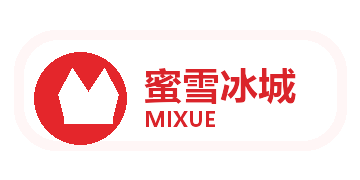
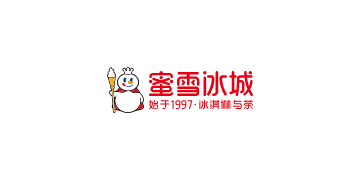
Make brand and drink choices visually recognizable
The screenshots showed three related trust and clarity problems: brand cards hid weak logo assets inside busy cards, drink cards reused broad tag icons too often, and the shared-bike equivalent reused the jogging figure. This keeps the flow unchanged while making the selection and result visuals map to what users actually picked.

Constraint: Keep the mini program as a lightweight趣味估算 tool without adding new flows, sources in the UI, or third-party dependencies.

Constraint: Use official brand web assets where accessible and avoid third-party logo sites.

Rejected: Add a new icon library dependency | local generated PNG assets keep the change small and mini-program friendly.

Rejected: Use unofficial logo aggregators for every brand | source trust matters more than filling every gap with third-party files.

Confidence: high

Scope-risk: moderate

Directive: Do not replace brand assets with third-party logo-site downloads; keep official-source notes internal only.

Tested: npm test (25/25 passing)

Tested: node --check utils/poster.js

Tested: full recursive node --check for *.js

Not-tested: WeChat DevTools visual preview on device after asset replacement

Changed region(s): [[0.0917, 0.2778, 0.825, 0.8056]]

diff --git a/data/drink-icons.js b/data/drink-icons.js
@@ -1,0 +1,73 @@
+module.exports = {
+  'mixue-fresh-lemonade': '/assets/icons/drinks/fruit-tea.png',
+  'mixue-ice-cream': '/assets/icons/drinks/ice-cream.png',
+  'mixue-strawberry-shake': '/assets/icons/drinks/fruit-tea.png',
+  'mixue-jasmine-milk-green': '/assets/icons/drinks/jasmine-milk.png',
+  'mixue-snow-king-coffee': '/assets/icons/drinks/coffee-float.png',
+  'mixue-pearl-milk-tea': '/assets/icons/drinks/milk-tea.png',
+  'mixue-orange-smash': '/assets/icons/drinks/fruit-tea.png',
+  'mixue-passion-fruit-cup': '/assets/icons/drinks/fruit-tea.png',
+
+  'chagee-boya-juexian': '/assets/icons/drinks/original-tea.png',
+  'chagee-ceylon-black-tea': '/assets/icons/drinks/original-tea.png',
+  'chagee-qingmo-guanyin': '/assets/icons/drinks/original-tea.png',
+  'chagee-qingqing-nuoshan': '/assets/icons/drinks/original-tea.png',
+  'chagee-guifu-lanxiang': '/assets/icons/drinks/osmanthus-tea.png',
+  'chagee-baiwu-hongchen': '/assets/icons/drinks/original-tea.png',
+  'chagee-rose-puer': '/assets/icons/drinks/original-tea.png',
+  'chagee-wanshanhong': '/assets/icons/drinks/original-tea.png',
+
+  'heytea-grape-jelly': '/assets/icons/drinks/fruit-tea.png',
+  'heytea-berry-cheese': '/assets/icons/drinks/cheese-foam.png',
+  'heytea-mango-cheese': '/assets/icons/drinks/mango-pomelo.png',
+  'heytea-green-grape': '/assets/icons/drinks/fruit-tea.png',
+  'heytea-roasted-brown-sugar-bobo': '/assets/icons/drinks/milk-tea.png',
+  'heytea-light-mango-pomelo': '/assets/icons/drinks/mango-pomelo.png',
+  'heytea-cheese-green-tea': '/assets/icons/drinks/cheese-foam.png',
+  'heytea-yueguan': '/assets/icons/drinks/original-tea.png',
+
+  'chabaidao-yangzhi-ganlu': '/assets/icons/drinks/mango-pomelo.png',
+  'chabaidao-green-grape-jasmine': '/assets/icons/drinks/fruit-tea.png',
+  'chabaidao-watermelon-bobo': '/assets/icons/drinks/fruit-tea.png',
+  'chabaidao-sunshine-green-grape-milk': '/assets/icons/drinks/fruit-tea.png',
+  'chabaidao-pink-guava': '/assets/icons/drinks/fruit-tea.png',
+  'chabaidao-soy-jade-kylin': '/assets/icons/drinks/original-tea.png',
+  'chabaidao-signature-taro-ball-milk-tea': '/assets/icons/drinks/milk-tea.png',
+  'chabaidao-jasmine-milk-green': '/assets/icons/drinks/jasmine-milk.png',
+
+  'guming-yangzhi-ganlu': '/assets/icons/drinks/mango-pomelo.png',
+  'guming-super-cheese-grape': '/assets/icons/drinks/cheese-foam.png',
+  'guming-yunling-jasmine-white': '/assets/icons/drinks/jasmine-milk.png',
+  'guming-brulee-crunch-milk': '/assets/icons/drinks/cheese-foam.png',
+  'guming-taro-grain-milk': '/assets/icons/drinks/milk-tea.png',
+  'guming-whole-lemon': '/assets/icons/drinks/fruit-tea.png',
+  'guming-passion-duet': '/assets/icons/drinks/fruit-tea.png',
+  'guming-classic-milk-tea': '/assets/icons/drinks/milk-tea.png',
+
+  'yidiandian-black-tea-macchiato': '/assets/icons/drinks/cheese-foam.png',
+  'yidiandian-boba-milk-tea': '/assets/icons/drinks/milk-tea.png',
+  'yidiandian-four-seasons-three-toppings': '/assets/icons/drinks/original-tea.png',
+  'yidiandian-milk-black-tea': '/assets/icons/drinks/milk-tea.png',
+  'yidiandian-qingxiang-oolong': '/assets/icons/drinks/original-tea.png',
+  'yidiandian-ice-cream-black-tea': '/assets/icons/drinks/ice-cream.png',
+  'yidiandian-yakult-green-tea': '/assets/icons/drinks/original-tea.png',
+  'yidiandian-grapefruit-green-tea': '/assets/icons/drinks/fruit-tea.png',
+
+  'coco-pearl-milk-tea': '/assets/icons/drinks/milk-tea.png',
+  'coco-three-brothers': '/assets/icons/drinks/milk-tea.png',
+  'coco-passion-fruit-double': '/assets/icons/drinks/fruit-tea.png',
+  'coco-taro-grain-milk': '/assets/icons/drinks/milk-tea.png',
+  'coco-jasmine-milk-green': '/assets/icons/drinks/jasmine-milk.png',
+  'coco-taro-milk-tea': '/assets/icons/drinks/milk-tea.png',
+  'coco-lemon-king': '/assets/icons/drinks/fruit-tea.png',
+  'coco-coconut-mango-pomelo': '/assets/icons/drinks/mango-pomelo.png',
+
+  'molimilk-jasmine-milk-white': '/assets/icons/drinks/jasmine-milk.png',
+  'molimilk-osmanthus-longjing': '/assets/icons/drinks/osmanthus-tea.png',
+  'molimilk-bailan': '/assets/icons/drinks/original-tea.png',
+  'molimilk-gardenia-milk-white': '/assets/icons/drinks/jasmine-milk.png',
+  'molimilk-matcha-bailan': '/assets/icons/drinks/matcha.png',
+  'molimilk-matcha-zhenwang': '/assets/icons/drinks/matcha.png',
+  'molimilk-jasmine-flower': '/assets/icons/drinks/jasmine-milk.png',
+  'molimilk-jasmine-mango-pomelo': '/assets/icons/drinks/mango-pomelo.png'
+};

diff --git a/tests/ui-layout.test.js b/tests/ui-layout.test.js
@@ -63,6 +63,57 @@ test('drink selection uses a two-column grid instead of a narrow single column',
   assert.doesNotMatch(styles, /\.drink-list\s*{[^}]*flex-direction:\s*column/s);
 });
 
+test('drink cards use drink-specific artwork instead of the first generic tag icon', () => {
+  const script = read('pages/drinks/drinks.js');
+  const iconMap = require('../data/drink-icons');
+
+  assert.match(script, /getDrinkIcon\(drink\)/);
+  assert.doesNotMatch(script, /icon:\s*tags\[0\]\s*\?\s*tags\[0\]\.icon/);
+  assert.equal(iconMap['molimilk-osmanthus-longjing'], '/assets/icons/drinks/osmanthus-tea.png');
+  assert.equal(iconMap['molimilk-jasmine-mango-pomelo'], '/assets/icons/drinks/mango-pomelo.png');
+  assert.ok(new Set(Object.values(iconMap)).size >= 8);
+});
+
+test('brand page gives official logos a larger dedicated visual area', () => {
+  const markup = read('pages/brands/brands.wxml');
+  const styles = read('pages/brands/brands.wxss');
+
+  assert.match(markup, /class="brand-logo-panel"/);
+  assert.match(markup, /class="brand-meta"/);
+  assert.match(styles, /\.brand-logo-panel\s*{/);
+  assert.match(styles, /\.brand-logo\s*{[^}]*width:\s*220rpx;[^}]*height:\s*96rpx;/s);
+  assert.match(styles, /\.brand-card\s*{[^}]*min-height:\s*214rpx;/s);
+});
+
+test('local visual assets cover official brand logos and specific drink icons', () => {
+  const sources = JSON.parse(read('assets/brands/sources.json'));
+  const iconPaths = [
+    'assets/icons/bike.png',
+    'assets/icons/drinks/original-tea.png',
+    'assets/icons/drinks/milk-tea.png',
+    'assets/icons/drinks/fruit-tea.png',
+    'assets/icons/drinks/cheese-foam.png',
+    'assets/icons/drinks/matcha.png',
+    'assets/icons/drinks/mango-pomelo.png',
+    'assets/icons/drinks/coffee-float.png',
+    'assets/icons/drinks/ice-cream.png',
+    'assets/icons/drinks/osmanthus-tea.png',
+    'assets/icons/drinks/jasmine-milk.png'
+  ];
+
+  assert.equal(Object.keys(sources).length, 8);
+  for (const source of Object.values(sources)) {
+    assert.match(source.url, /^https:\/\/(www\.|cn\.|web-oss\.|oss\.|g\.)?[a-z0-9.-]+\//i);
+    assert.equal(source.type, 'official');
+  }
+
+  for (const iconPath of iconPaths) {
+    const absolutePath = path.join(__dirname, '..', iconPath);
+    assert.ok(fs.existsSync(absolutePath), `${iconPath} should exist`);
+    assert.ok(fs.statSync(absolutePath).size > 1000, `${iconPath} should be a real image asset`);
+  }
+});
+
 test('result page presents equivalent cards as a single-card swiper', () => {
   const markup = read('pages/result/result.wxml');
 

diff --git a/tests/equivalents.test.js b/tests/equivalents.test.js
@@ -11,7 +11,7 @@ const equivalents = [
   { id: 'americano', name: '美式咖啡', unit: '杯', kind: 'count', caloriesPerUnit: 10, icon: '/assets/icons/milk-tea-cup.png' },
   { id: 'ice-cream', name: '雪糕', unit: '根', kind: 'count', caloriesPerUnit: 120, icon: '/assets/icons/result-clay-card.png' },
   { id: 'apple', name: '苹果', unit: '个', kind: 'count', caloriesPerUnit: 95, icon: '/assets/icons/toppings.png' },
-  { id: 'bike', name: '骑共享单车', unit: '分钟', kind: 'minutes', caloriesPerMinute: 6.5, icon: '/assets/icons/jogging.png' }
+  { id: 'bike', name: '骑共享单车', unit: '分钟', kind: 'minutes', caloriesPerMinute: 6.5, icon: '/assets/icons/bike.png' }
 ];
 
 test('buildEquivalentCards formats the eight fixed equivalent cards', () => {
@@ -40,4 +40,11 @@ test('stored equivalent set includes the four surprise comparison cards', () => 
     'apple',
     'bike'
   ]);
+});
+
+test('shared bike equivalent uses a bike icon instead of the jogging figure', () => {
+  const bike = store.equivalents.find((item) => item.id === 'bike');
+
+  assert.equal(bike.icon, '/assets/icons/bike.png');
+  assert.notEqual(bike.icon, '/assets/icons/jogging.png');
 });

diff --git a/utils/drink-icons.js b/utils/drink-icons.js
@@ -1,0 +1,26 @@
+const drinkIcons = require('../data/drink-icons');
+
+const fallbackByTag = {
+  classic: '/assets/icons/drinks/original-tea.png',
+  'milk-tea': '/assets/icons/drinks/milk-tea.png',
+  fruit: '/assets/icons/drinks/fruit-tea.png',
+  'milk-foam': '/assets/icons/drinks/cheese-foam.png',
+  fresh: '/assets/icons/drinks/original-tea.png',
+  'thick-milk': '/assets/icons/drinks/milk-tea.png',
+  toppings: '/assets/icons/drinks/milk-tea.png'
+};
+
+function getDrinkIcon(drink) {
+  if (drinkIcons[drink.id]) {
+    return drinkIcons[drink.id];
+  }
+
+  const tags = drink.tagIds || [];
+  const matchedTag = tags.find((tag) => fallbackByTag[tag]);
+
+  return matchedTag ? fallbackByTag[matchedTag] : '/assets/icons/drinks/milk-tea.png';
+}
+
+module.exports = {
+  getDrinkIcon
+};

diff --git a/data/equivalents.js b/data/equivalents.js
@@ -6,5 +6,5 @@ module.exports = [
   { id: 'americano', name: '美式咖啡', unit: '杯', kind: 'count', caloriesPerUnit: 10, icon: '/assets/icons/milk-tea-cup.png' },
   { id: 'ice-cream', name: '雪糕', unit: '根', kind: 'count', caloriesPerUnit: 120, icon: '/assets/icons/result-clay-card.png' },
   { id: 'apple', name: '苹果', unit: '个', kind: 'count', caloriesPerUnit: 95, icon: '/assets/icons/toppings.png' },
-  { id: 'bike', name: '骑共享单车', unit: '分钟', kind: 'minutes', caloriesPerMinute: 6.5, icon: '/assets/icons/jogging.png' }
+  { id: 'bike', name: '骑共享单车', unit: '分钟', kind: 'minutes', caloriesPerMinute: 6.5, icon: '/assets/icons/bike.png' }
 ];

diff --git a/pages/drinks/drinks.js b/pages/drinks/drinks.js
@@ -1,5 +1,6 @@
 const store = require('../../utils/data-store');
 const { calculateBrandDrinkCalories } = require('../../utils/calculator');
+const { getDrinkIcon } = require('../../utils/drink-icons');
 const { encodePayload } = require('../../utils/nav');
 
 Page({
@@ -27,7 +28,7 @@ Page({
         ...drink,
         tags,
         displayTags: tags.slice(0, 2),
-        icon: tags[0] ? tags[0].icon : '/assets/icons/milk-tea-cup.png'
+        icon: getDrinkIcon(drink)
       };
     });
     this.setData({ brand, drinks });
